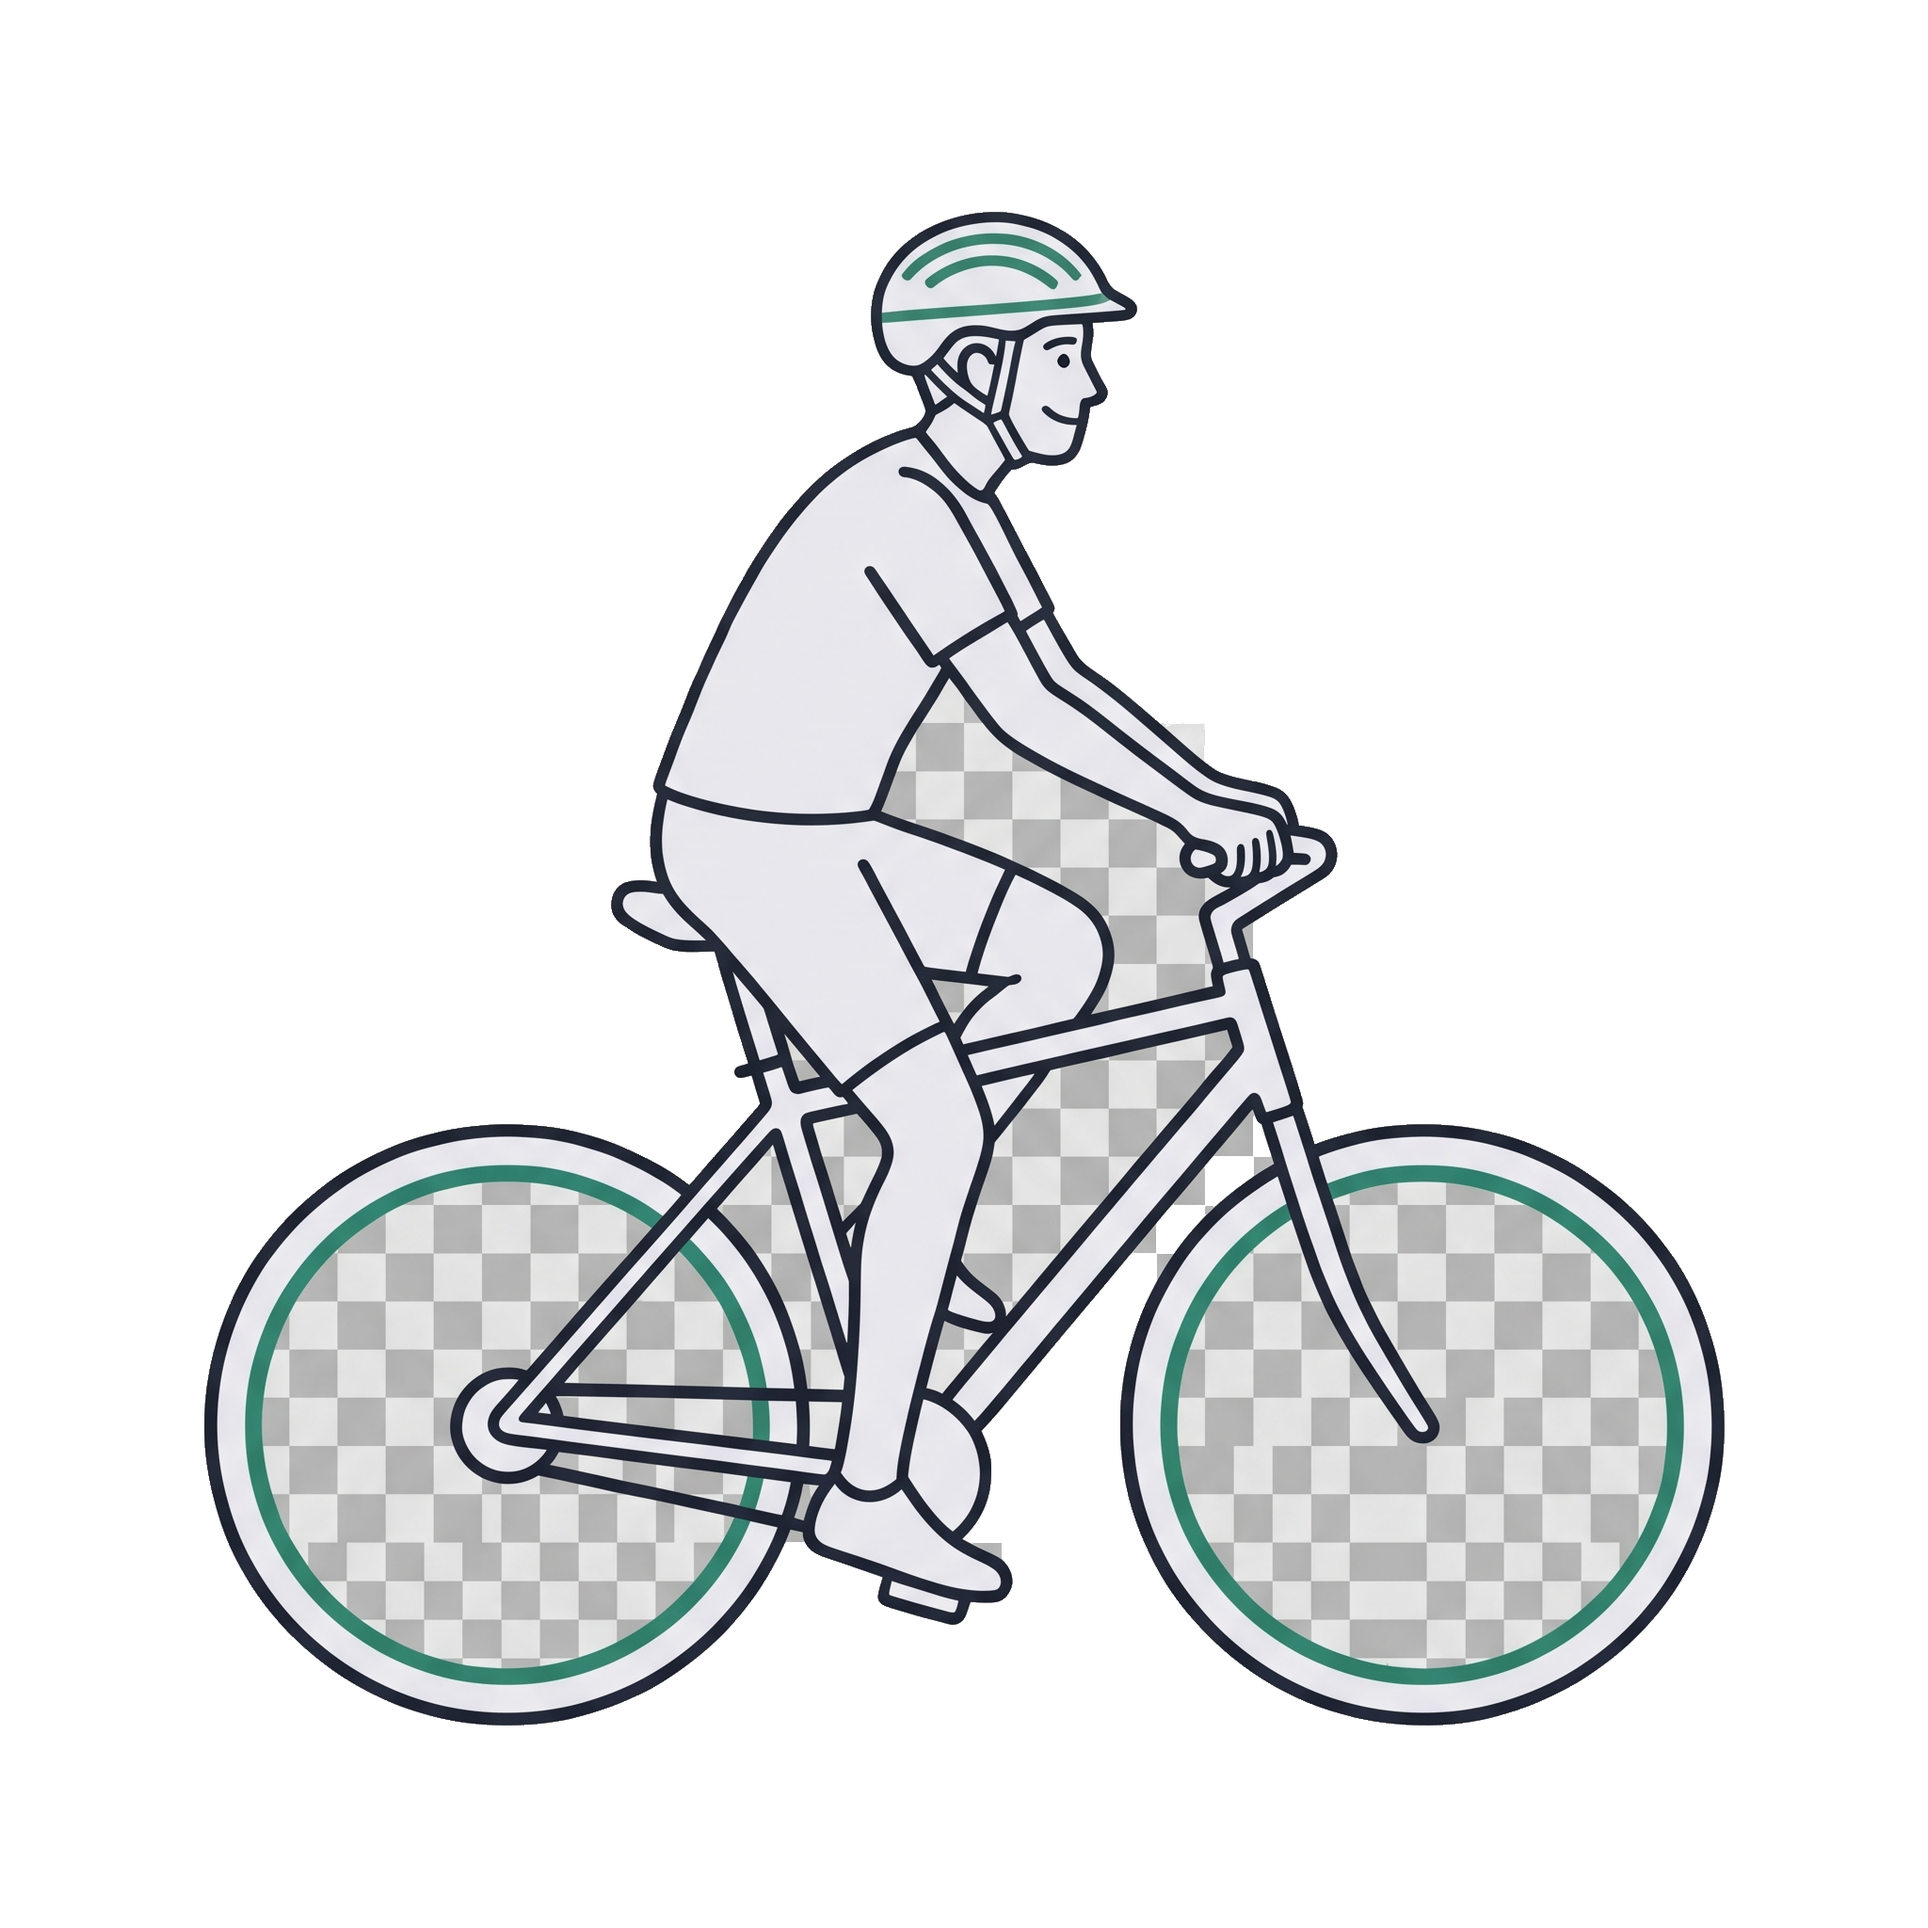
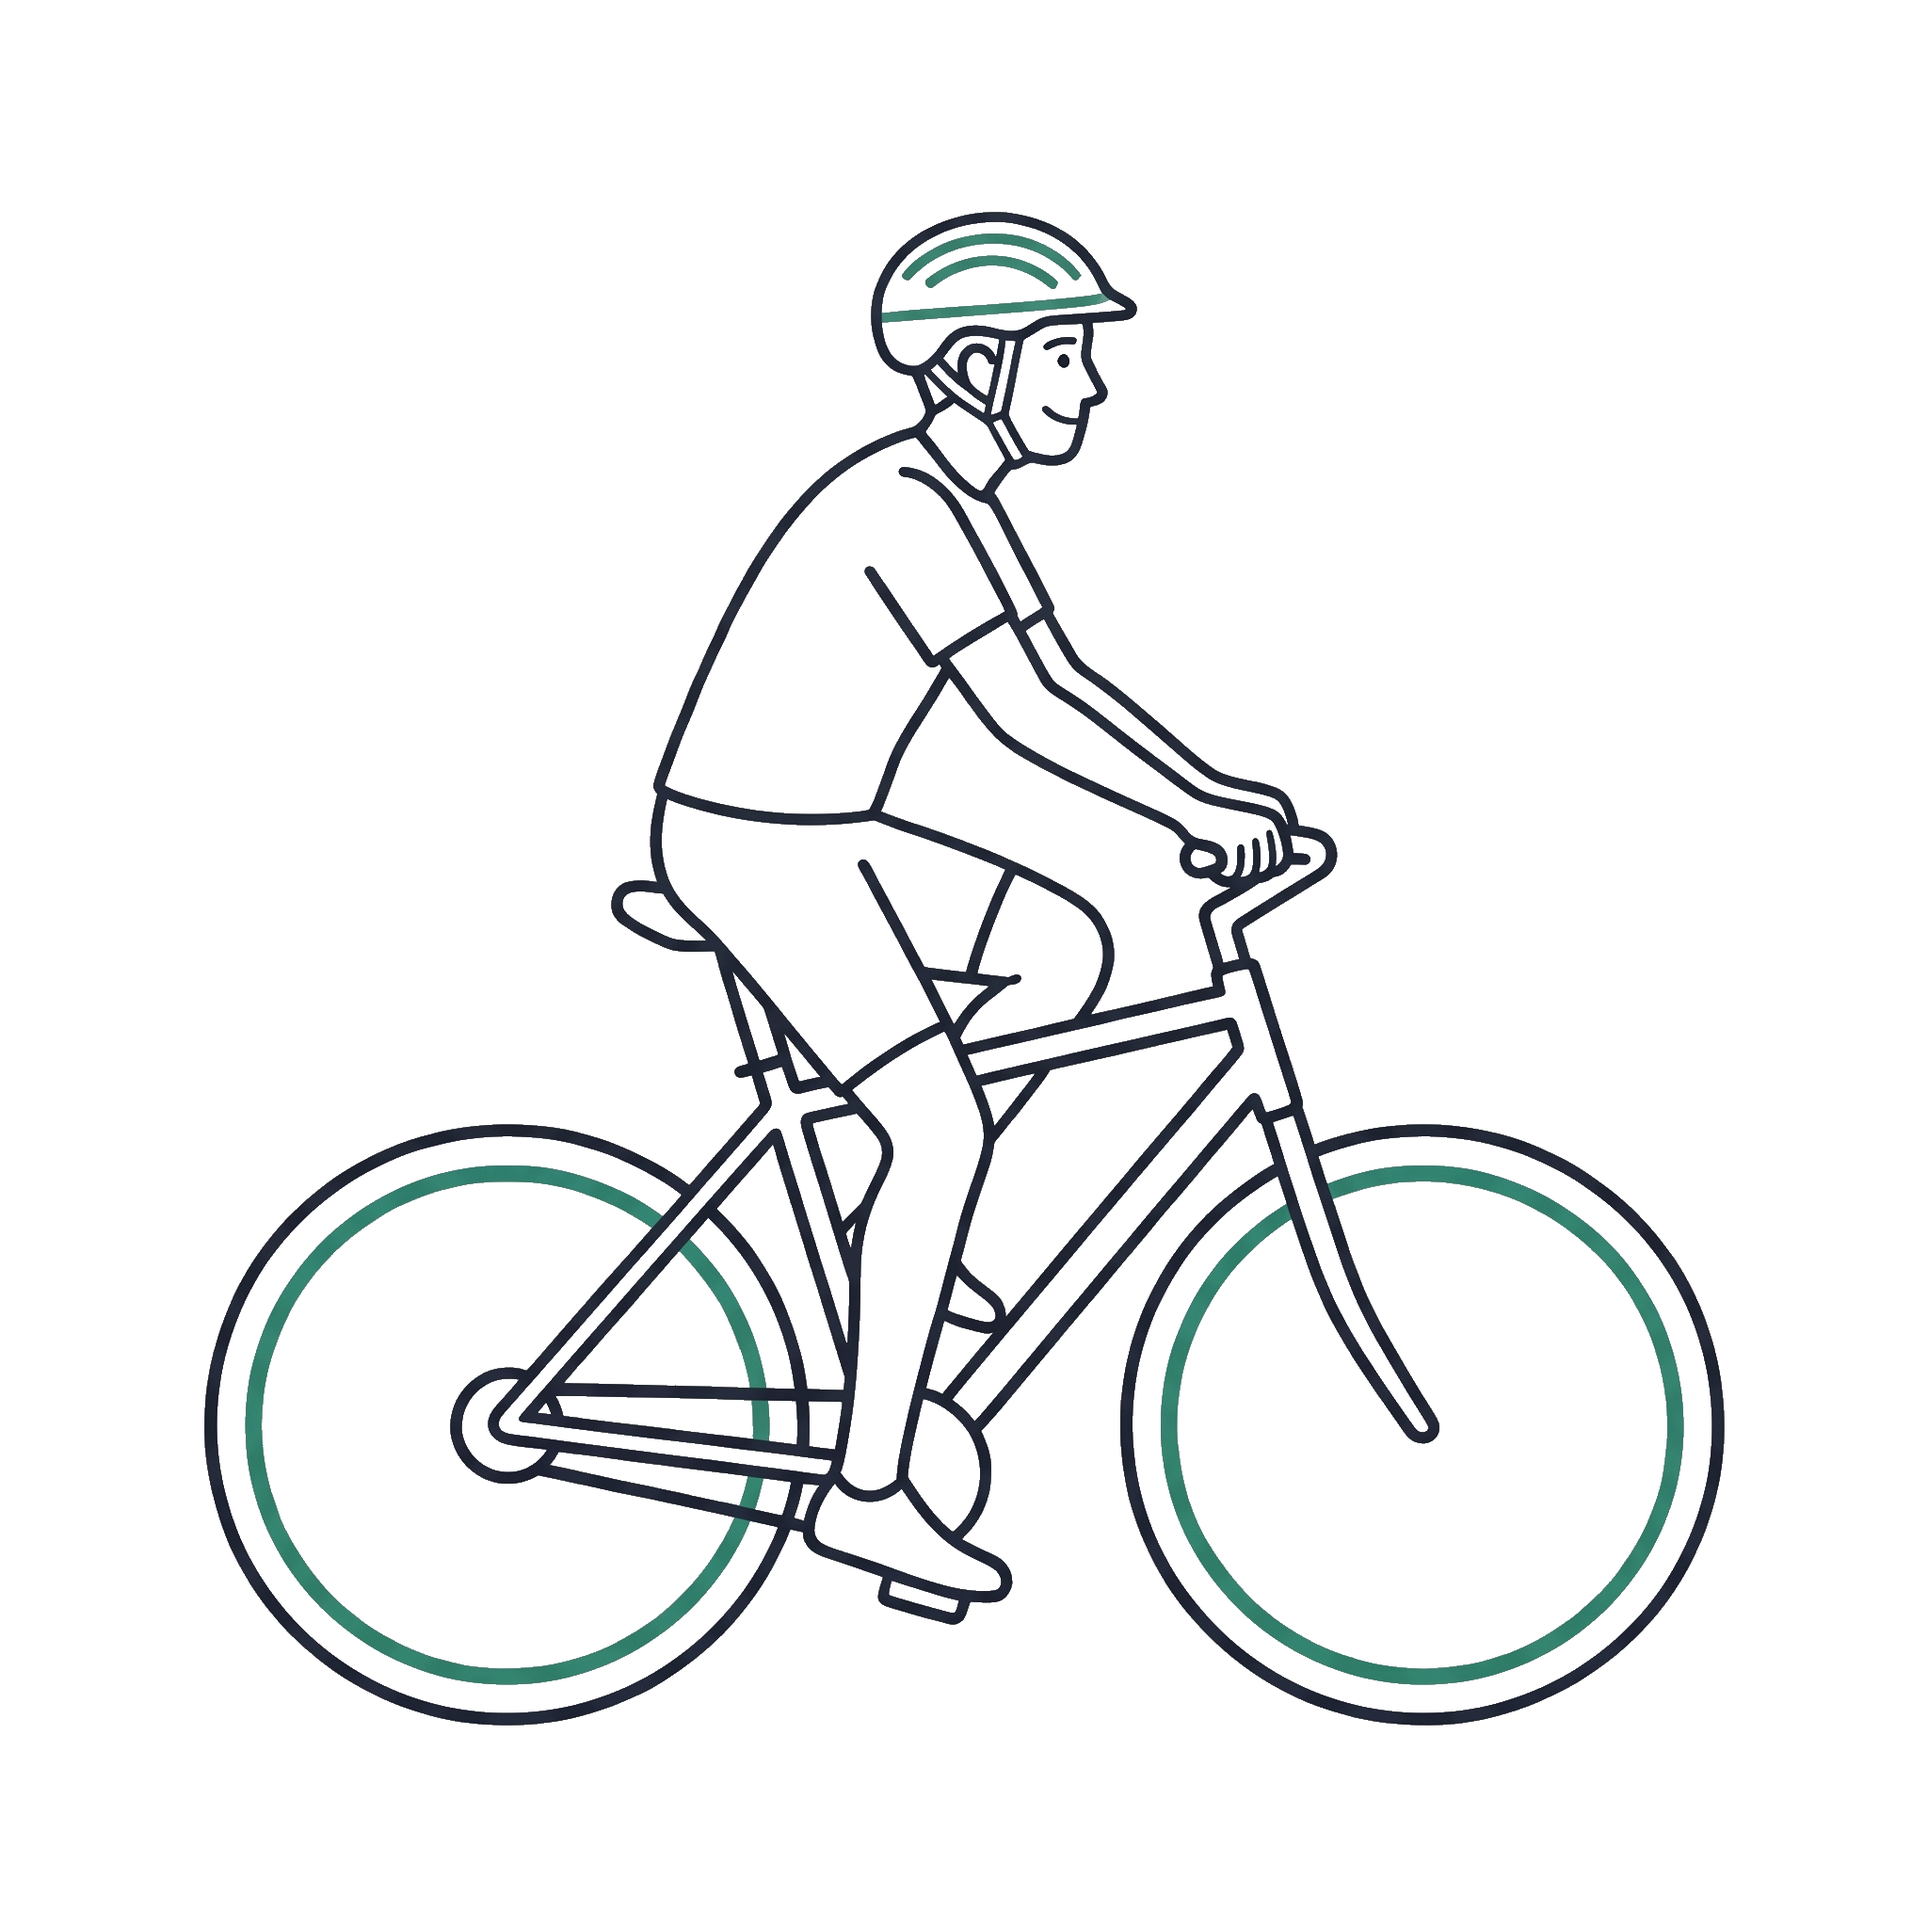
fix(positions): strip background from interior cavities too
The border-seeded flood fill left the background color opaque inside
topologically enclosed cavities (gaps between wheel spokes, between
legs and frame, inside the helmet strap). On the dark UI panels this
read as a visible 'checkerboard' through the wheels.

Added a second pass in strip_bg.py: a global color match that flags
EVERY pixel within tolerance of the corner-sampled seeds as background,
regardless of reachability. Safe here because the subject palette
(cream + teal + dark lines) is far from every background palette we've
seen (dark navy, charcoal, light grey).

Re-processed all 6 images. Subject coverage drops from ~35% to ~10%,
which is the true silhouette area — the other 25% was background color
trapped inside cavities.

Changed region(s): [[0.0938, 0.0938, 0.9062, 0.9062]]

diff --git a/scripts/strip_bg.py b/scripts/strip_bg.py
@@ -146,15 +146,44 @@ def _remove_sparkle_watermark(arr: np.ndarray) -> int:
     return erased
 
 
+def _global_color_mask(arr: np.ndarray, seeds: list[tuple[int, int, int]],
+                       tolerance: int) -> np.ndarray:
+    """Mark every pixel whose RGB is within ``tolerance`` of ANY seed color
+    as background — not just pixels reachable from the image border.
+
+    This is what cleans the interior cavities (gaps between wheel spokes,
+    between legs and frame, inside the helmet strap, etc.) that a pure
+    border-seeded flood fill leaves opaque because they are topologically
+    surrounded by the subject.
+
+    Safe for these illustrations because the subject palette (cream
+    #E8E6F0 + teal #1D9E75) is far from the background palette
+    (dark navy / charcoal / light grey) — they don't share near-enough
+    colors to confuse the classifier.
+    """
+    rgb = arr[..., :3].astype(np.int16)
+    mask = np.zeros(arr.shape[:2], dtype=bool)
+    for seed in seeds:
+        s = np.array(seed, dtype=np.int16)
+        near = np.max(np.abs(rgb - s), axis=2) <= tolerance
+        mask |= near
+    return mask
+
+
 def strip(path: Path, tolerance: int, feather: int, dry_run: bool) -> None:
     im = Image.open(path).convert("RGBA")
     arr = np.array(im)
     seeds = _corner_palette(arr)
     print(f"{path.name}: corner seeds = {seeds}")
 
+    # Pass 1: border-seeded flood fill catches the outer frame.
     bg_mask = np.zeros(arr.shape[:2], dtype=bool)
     for seed in seeds:
         bg_mask |= _flood_transparent(arr, seed, tolerance)
+
+    # Pass 2: global color match catches interior cavities (wheel gaps,
+    # between-legs, helmet interior) that flood fill can't reach.
+    bg_mask |= _global_color_mask(arr, seeds, tolerance)
 
     kept_frac = 1.0 - float(bg_mask.mean())
     print(f"  tolerance={tolerance}  kept {kept_frac * 100:.1f}% of pixels (subject)")
